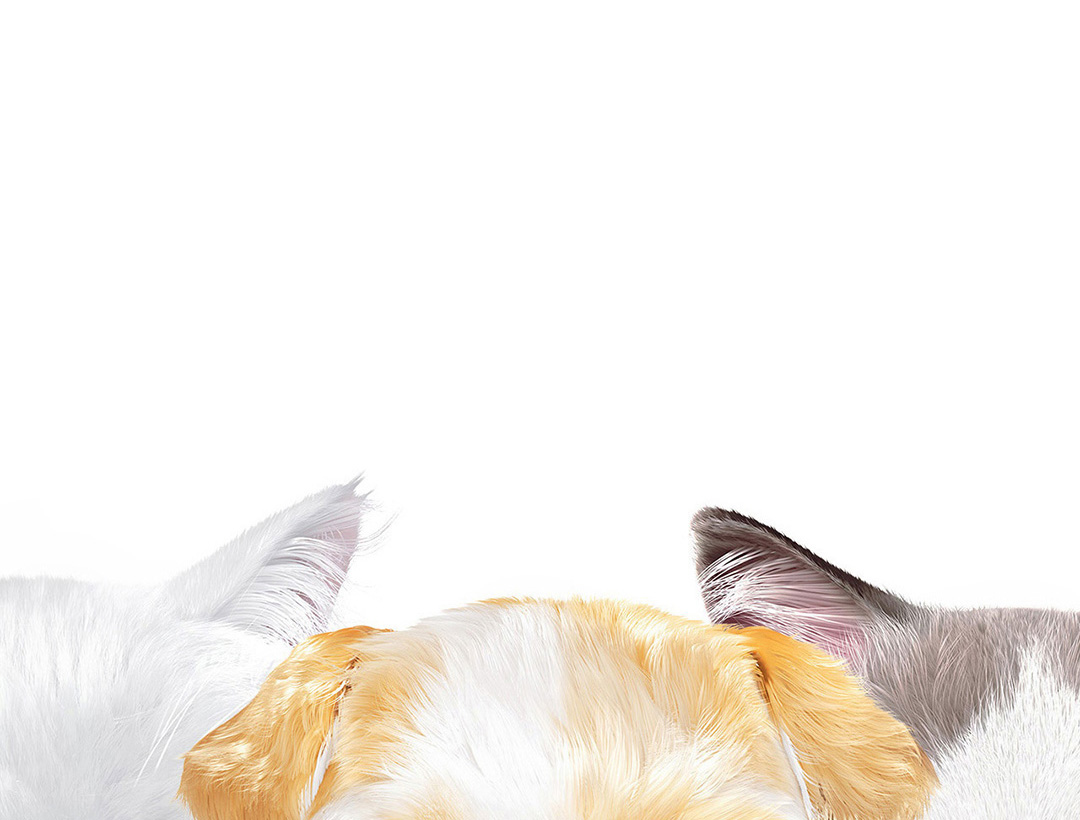
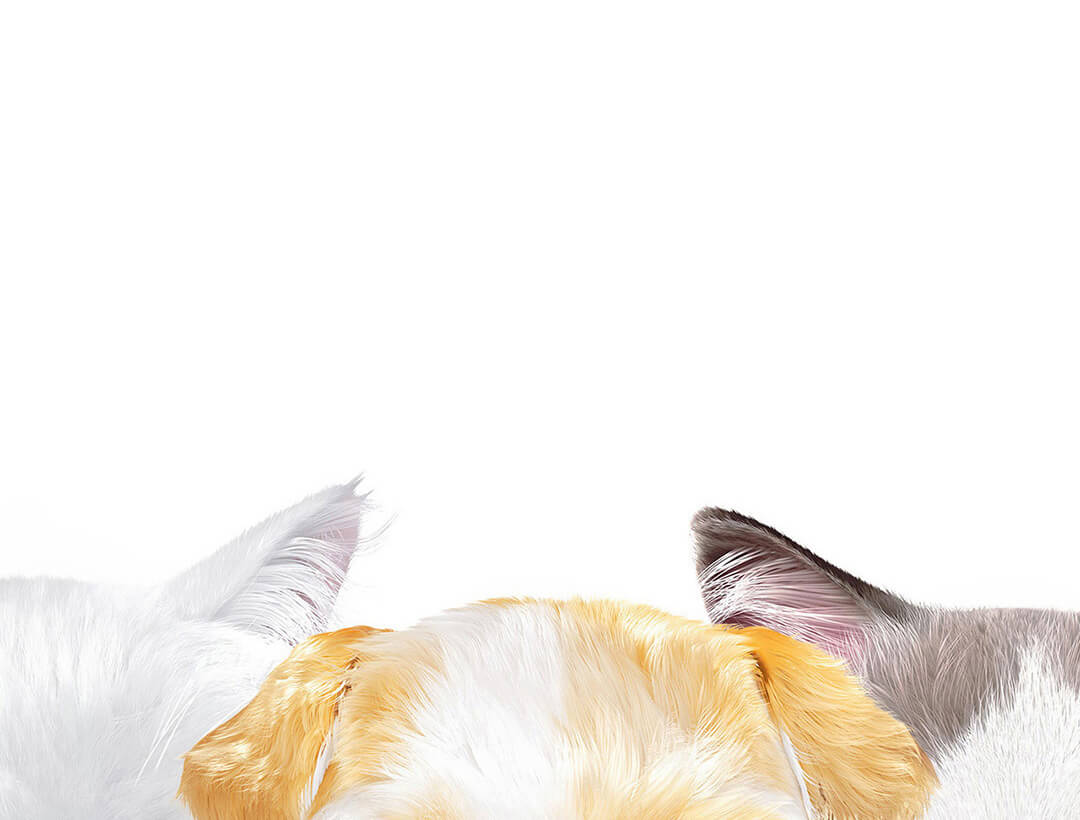
슈가캣 쇼핑몰 업데이트 + 이미지사이즈 줄이기

diff --git a/index.html b/index.html
@@ -104,7 +104,8 @@
       <a class="nav_logo" href="#skip_top">Sugar Cat &amp; Candy Doggie</a>
     </div>
     <div class="pull-right">
-      <a href="#shop">Shop</a>
+      <span class="lang en"><a href="#shop">Shop</a></span>
+      <span class="lang ko hidden"><a href="http://sugarcats.co.kr" target="_blank">Shop</a></span>
       <a href="#artworks">Artworks</a>
       <a href="order/index.html">Order Portrait</a>
     </div>
@@ -146,10 +147,10 @@
                   <p class="caption lang ko hidden">크리스마스 시즌 상품이 출시되었습니다!</p>
                 </li>-->
                 <!-- -->
-                <li><img src="img/shop_redbubble1.jpg" alt="Shop on Sugarcat">
+                <li><img src="img/shop_sugarcat.jpg" alt="Shop on Sugarcat">
                   <p class="caption lang en">Meet Sugar Cat's New Goods!</p>
                   <p class="caption lang ja hidden">Meet Sugar Cat's New Goods!</a></p>
-                  <p class="caption lang ko hidden">슈가캣의 아트상품을 만나보세요!</p>
+                  <p class="caption lang ko hidden">슈가캣&amp;캔디도기 쇼핑몰 오픈!</p>
                 </li>
                 
                 <li><img src="img/shop_redbubble2.jpg" alt="Shop on Sugarcat">
@@ -157,12 +158,12 @@
                   <p class="caption lang ja hidden">Sugar Cat Shop on RedBubble</p>
                   <p class="caption lang ko hidden">RedBubble 아티스트 샵 (전세계배송)</p>
                 </li>
-
+                <!--offthegallery
                 <li><img src="img/shop_offthegallery.jpg" alt="Shop on Sugarcat">
                   <p class="caption lang en">Sugar Cat on OFF THE GALLERY</p>
                   <p class="caption lang ja hidden">Sugar Cat on OFF THE GALLERY</p>
                   <p class="caption lang ko hidden">오프더갤러리 아티스트 샵</p>
-                </li> 
+                </li> -->
 
                 <li><img src="img/shop_curioos.jpg" alt="Shop on Sugarcat">
                   <p class="caption lang en">Wall Art Shop on Curioos</p>
@@ -191,14 +192,22 @@
             Go to Shop</a></div>
             <div class="lang ja hidden"><a class="btn" href="https://www.redbubble.com/people/sugarcat/shop" target="_blank">
             Go to Shop</a></div>
-            <div class="lang ko hidden"><a class="btn" href="https://offthegallery.net/artist/%EC%8A%88%EA%B0%80%EC%BA%A3%EC%BA%94%EB%94%94%EB%8F%84%EA%B8%B0/" target="_blank">
+            <div class="lang ko hidden"><a class="btn" href="http://sugarcats.co.kr/" target="_blank">
             샵 바로가기</a></div>
 
             <br>
-            <span class="main_info lang ko hidden"><b>오프더갤러리</b> 아티스트 샵으로 연결됩니다.<br>다른 샵을 찾으시나요?&nbsp;&nbsp;&nbsp;<a class="text_btn_small" href="https://www.redbubble.com/people/sugarcat/shop" target="_blank">RedBubble</a>,&nbsp;&nbsp;<a class="text_btn_small" href="https://www.curioos.com/sugarcat" target="_blank">Curioos</a>,&nbsp;&nbsp;<a class="text_btn_small" href="http://www.holenga.com/sugarcat-candydoggie-s-korea" target="_blank">Holenga</a></span>
+            <span class="main_info lang ko hidden"><b>슈가캣&amp;캔디도기 쇼핑몰</b>로 연결됩니다.<br>다른 샵을 찾으시나요?&nbsp;&nbsp;&nbsp;<a class="text_btn_small" href="https://offthegallery.net/artist/%EC%8A%88%EA%B0%80%EC%BA%A3%EC%BA%94%EB%94%94%EB%8F%84%EA%B8%B0/" target="_blank">오프더갤러리</a>,&nbsp;&nbsp;<a class="text_btn_small" href="https://www.redbubble.com/people/sugarcat/shop" target="_blank">RedBubble</a>,&nbsp;&nbsp;<a class="text_btn_small" href="https://www.curioos.com/sugarcat" target="_blank">Curioos</a>,&nbsp;&nbsp;<a class="text_btn_small" href="http://www.holenga.com/sugarcat-candydoggie-s-korea" target="_blank">Holenga</a></span>
 
             <span class="main_info lang en">Sugar Cat Shop on <b>RedBubble</b>. Otherwise,&nbsp;&nbsp;<a class="text_btn_small" href="https://www.curioos.com/sugarcat" target="_blank">Curioos</a>,&nbsp;&nbsp;<a class="text_btn_small" href="http://www.holenga.com/sugarcat-candydoggie-s-korea" target="_blank">Holenga</a></span>
+            
+            <div class="main_info">
+              <div class="lang en">(If you're Korean, Click <a class="text_btn_small" href="http://sugarcats.co.kr/" target="_blank">here</a>.)
+              </div>
+            </div>
+
           </div>
+
+
 
       </div>
     </div>

diff --git a/order/index.html b/order/index.html
@@ -82,7 +82,8 @@
       <a class="nav_logo" href="../index.html">Sugar Cat &amp; Candy Doggie</a>
     </div>
     <div class="pull-right">
-      <a href="../index.html#shop">Shop</a>
+      <span class="lang en"><a href="../index.html#shop">Shop</a></span>
+      <span class="lang ko hidden"><a href="http://sugarcats.co.kr" target="_blank">Shop</a></span>
       <a href="../index.html#artworks2">Artworks</a>
       <a href="#skip_top">Order Portrait</a>
     </div>
@@ -285,25 +286,25 @@
               <span class="lang ko hidden">주문제작 반려동물 초상화 : 56,000원 부터</span>
             </p>
             
-            <!--
+
             <div class="lang en"><a class="btn" href="http://www.formpl.us/form/0B86Yq4nZnQx5TWdpZ0pZTE1hck0" target="_blank">
             Buy</a></div>
             <div class="lang ja hidden"><a class="btn" href="http://www.formpl.us/form/0B86Yq4nZnQx5TWdpZ0pZTE1hck0" target="_blank">
             Buy</a></div>
-            <div class="lang ko hidden"><a class="btn" href="http://www.formpl.us/form/0B86Yq4nZnQx5elBjcXJwZGxfa1E" target="_blank">
+            <div class="lang ko hidden"><a class="btn" href="http://sugarcats.co.kr/product/%EC%A3%BC%EB%AC%B8%EC%A0%9C%EC%9E%91-%EB%B0%98%EB%A0%A4%EB%8F%99%EB%AC%BC-%EC%B4%88%EC%83%81%ED%99%94/18/category/26/display/2/" target="_blank">
             주문하기</a></div>
 
             <div class="main_info">
-              <div class="lang en">(If you're Korean, Click <a class="text_btn_small" href="https://www.formpl.us/form/5744943662366720" target="_blank">here</a>.)
+              <div class="lang en">(If you're Korean, Click <a class="text_btn_small" href="http://sugarcats.co.kr/product/%EC%A3%BC%EB%AC%B8%EC%A0%9C%EC%9E%91-%EB%B0%98%EB%A0%A4%EB%8F%99%EB%AC%BC-%EC%B4%88%EC%83%81%ED%99%94/18/category/26/display/2/" target="_blank">here</a>.)
               </div>
             </div>
-            -->
 
+            <!--
             <p class="text_btn">
               <span class="lang en">February of October has ended in advance.</span>
               <span class="lang ja hidden">February of October has ended in advance.</span>
               <span class="lang ko hidden">2월 주문이 조기마감 되었습니다.</span>
-            </p>         
+            </p>  -->       
 
 
 
